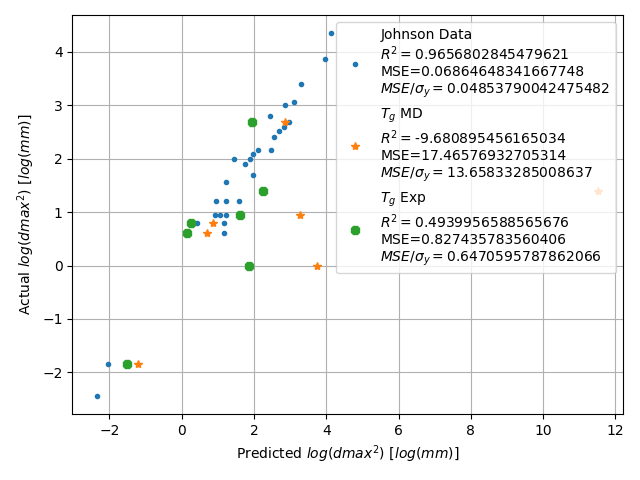
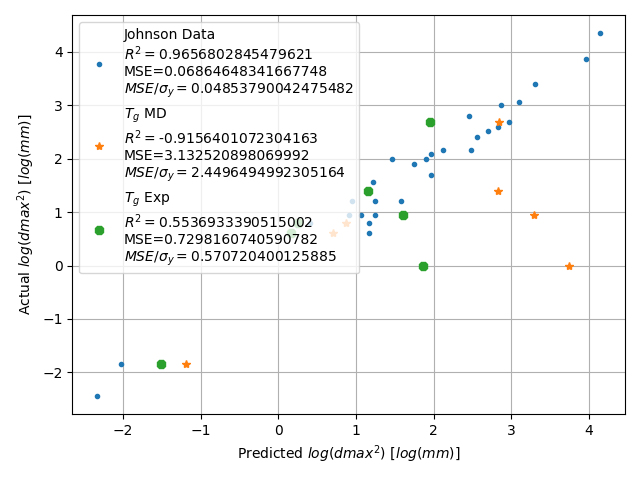
Uncertatinty propagations

diff --git a/ml/scripts/dmax_vs_tgovertstar.py b/ml/scripts/dmax_vs_tgovertstar.py
@@ -1,109 +1,36 @@
-from matplotlib import colors as mcolors
 from matplotlib import pyplot as pl
 import pandas as pd
 import numpy as np
 
-# Colors for plots
-colors = dict(mcolors.BASE_COLORS, **mcolors.CSS4_COLORS)
-colors = [j for i, j in colors.items()]
-colors = iter(colors)
+# Data path
+df = '../data/m_fit.txt'
 
-dfjohnson = pd.read_csv('../dmax_johnson/matches.txt')
-dfjohnson['Alloy'] = [
-                      'Ni400P100',
-                      'Cu250Zr250',
-                      'Zr300Cu150Al50'
-                      ]
-
-dfjohnson.rename(columns={'Alloy': 'composition'}, inplace=True)
-dfjohnson = dfjohnson[['composition', 'dexp (mm)', 'TL (K)']]
-dfjohnson.columns = ['composition', 'dmax', 'tl']
-
-dfward = pd.read_csv('../dmax_ward/matches.txt')
-
-# Composition for 500 atoms
-dfward['composition'] = [
-                         'Al0Cu200Zr300',
-                         'Ni300Nb200',
-                         'Cu250Zr250',
-                         'Cu250Zr250',
-                         'Al35Cu230Zr235',
-                         'Al35Cu225Zr240',
-                         ]
-
-dftl = pd.read_csv('../tl/tl.txt')
-dftl = dftl[['composition', 'tl']]
-dftl = dftl.dropna()
-
-dfward = dfward.merge(dftl, on=['composition'])
-dfward = dfward[['composition', 'D_max', 'tl']]
-dfward.columns = ['composition', 'dmax', 'tl']
-
-df = pd.read_csv('../jobs_data/fragility.txt')
-df['composition'] = df['job'].apply(lambda x: x.split('_')[1])
-
-dfjohnson = df.merge(dfjohnson, on=['composition'])
-dfward = df.merge(dfward, on=['composition'])
-
-df = pd.concat([dfjohnson, dfward])
-
-# Gather Tg/T* and Tg/Tl
-df['tg/tstar'] = df['tg'].values/df['tstar'].values
-df['trg'] = df['tg'].values/df['tl'].values
-
-# Take mean values for each composition
-groups = df.groupby(['composition'])
-mean = groups.mean().add_suffix('_mean').reset_index()
-std = groups.std().add_suffix('_std').reset_index()
-sem = groups.sem().add_suffix('_sem').reset_index()
-count = groups.count().add_suffix('_count').reset_index()
-
-# Merge data
-df = mean.merge(sem)
-df = df.merge(std)
-df = df.merge(count)
-
-groups = df.groupby(['composition'])
+# Import data
+df = pd.read_csv(df)
 
 fig, ax = pl.subplots()
-for i, j in groups:
 
-    x = j['tg/tstar_mean'].values
-    y = j['dmax_mean'].values**2
-    xstd = j['tg/tstar_std'].values
-    xsem = j['tg/tstar_sem'].values
+x = df['tg_md_mean/tstar_mean']
+y = df['dmax']
+xerr = df['tg_md_mean/tstar_mean_err']
 
-    ax.errorbar(
-                x,
-                y,
-                xerr=xstd,
-                ecolor='y',
-                marker='8',
-                linestyle='none',
-                )
-
-    ax.errorbar(
-                x,
-                y,
-                xerr=xsem,
-                ecolor='r',
-                marker='8',
-                linestyle='none',
-                color=next(colors),
-                label=i
-                )
-
+ax.errorbar(
+            x,
+            y,
+            xerr=xerr,
+            ecolor='r',
+            marker='8',
+            linestyle='none',
+            )
 
 ax.grid()
-ax.legend()
 
-ax.set_xlabel(r'$T_{g}/T_{*}$')
-ax.set_ylabel(r'$D_{max}^{2}$ $[mm^{2}]$')
+ax.set_xlabel(r'$T_{g}/T^{*}$')
+ax.set_ylabel(r'$D_{max}$ $[mm]$')
 
 ax.set_yscale('log')
 
 fig.tight_layout()
-fig.savefig('../jobs_plots/dmax_vs_tgovertstar')
+fig.savefig('../figures/dmax_vs_tgovertstar')
 
-print(df)
 pl.show()

diff --git a/ml/scripts/dmax_vs_tgovertl.py b/ml/scripts/dmax_vs_tgovertl.py
@@ -1,108 +1,36 @@
-from matplotlib import colors as mcolors
 from matplotlib import pyplot as pl
 import pandas as pd
 import numpy as np
 
-# Colors for plots
-colors = dict(mcolors.BASE_COLORS, **mcolors.CSS4_COLORS)
-colors = [j for i, j in colors.items()]
-colors = iter(colors)
+# Data path
+df = '../data/m_fit.txt'
 
-dfjohnson = pd.read_csv('../dmax_johnson/matches.txt')
-dfjohnson['Alloy'] = [
-                      'Ni400P100',
-                      'Cu250Zr250',
-                      'Zr300Cu150Al50'
-                      ]
-
-dfjohnson.rename(columns={'Alloy': 'composition'}, inplace=True)
-dfjohnson = dfjohnson[['composition', 'dexp (mm)', 'TL (K)']]
-dfjohnson.columns = ['composition', 'dmax', 'tl']
-
-dfward = pd.read_csv('../dmax_ward/matches.txt')
-
-# Composition for 500 atoms
-dfward['composition'] = [
-                         'Al0Cu200Zr300',
-                         'Ni300Nb200',
-                         'Cu250Zr250',
-                         'Cu250Zr250',
-                         'Al35Cu230Zr235',
-                         'Al35Cu225Zr240',
-                         ]
-
-dftl = pd.read_csv('../tl/tl.txt')
-dftl = dftl[['composition', 'tl']]
-dftl = dftl.dropna()
-
-dfward = dfward.merge(dftl, on=['composition'])
-dfward = dfward[['composition', 'D_max', 'tl']]
-dfward.columns = ['composition', 'dmax', 'tl']
-
-df = pd.read_csv('../jobs_data/fragility.txt')
-df['composition'] = df['job'].apply(lambda x: x.split('_')[1])
-
-dfjohnson = df.merge(dfjohnson, on=['composition'])
-dfward = df.merge(dfward, on=['composition'])
-
-df = pd.concat([dfjohnson, dfward])
-
-# Gather Tl/T*
-df['tg/tl'] = df['tg'].values/df['tl'].values
-
-# Take mean values for each composition
-groups = df.groupby(['composition'])
-mean = groups.mean().add_suffix('_mean').reset_index()
-std = groups.std().add_suffix('_std').reset_index()
-sem = groups.sem().add_suffix('_sem').reset_index()
-count = groups.count().add_suffix('_count').reset_index()
-
-# Merge data
-df = mean.merge(sem)
-df = df.merge(std)
-df = df.merge(count)
-
-groups = df.groupby(['composition'])
+# Import data
+df = pd.read_csv(df)
 
 fig, ax = pl.subplots()
-for i, j in groups:
 
-    x = j['tg/tl_mean'].values
-    y = j['dmax_mean'].values**2
-    xstd = j['tg/tl_std'].values
-    xsem = j['tg/tl_sem'].values
+x = df['tg_md_mean/tl']
+y = df['dmax']
+xerr = df['tg_md_mean/tl_err']
 
-    ax.errorbar(
-                x,
-                y,
-                xerr=xstd,
-                ecolor='y',
-                marker='8',
-                linestyle='none',
-                )
-
-    ax.errorbar(
-                x,
-                y,
-                xerr=xsem,
-                ecolor='r',
-                marker='8',
-                linestyle='none',
-                color=next(colors),
-                label=i
-                )
-
+ax.errorbar(
+            x,
+            y,
+            xerr=xerr,
+            ecolor='r',
+            marker='8',
+            linestyle='none',
+            )
 
 ax.grid()
-ax.legend()
 
 ax.set_xlabel(r'$T_{g}/T_{l}$')
-ax.set_ylabel(r'$D_{max}^{2}$ $[mm^{2}]$')
+ax.set_ylabel(r'$D_{max}$ $[mm]$')
 
 ax.set_yscale('log')
 
 fig.tight_layout()
-fig.savefig('../jobs_plots/dmax_vs_tgovertl')
+fig.savefig('../figures/dmax_vs_tgovertl')
 
-print(df)
 pl.show()

diff --git a/ml/data_original/md.py b/ml/data_original/md.py
@@ -1,4 +1,31 @@
 import pandas as pd
+import numpy as np
+
+
+def uncertainty(x, y, z):
+
+    '''
+    Propagate uncertaintites for division or multiplication.
+
+    inputs:
+        x = Measured values
+        y = Measured values uncertatinties
+        z = Final measured value from calculation
+
+    outputs:
+        err = The uncertainty
+    '''
+    
+    print(x)
+    print(y)
+    err = 0.0
+    for i, j in zip(x, y):
+        err += (j/x)**2
+
+    err **= 0.5
+    err *= abs(z)
+
+    return err
 
 
 def md_data(dfexp, dfmd, source):
@@ -60,5 +87,16 @@ for source in set(df['source'].values):
     mean.append(md_data(dfexp, dfmd, source))
 
 mean = pd.concat(mean, sort=True)
+
+# Calculate features
+mean['tg_md_mean/tl'] = mean['tg_md_mean']/mean['tl']
+mean['tg_exp/tl'] = mean['tg_exp']/mean['tl']
+mean['tg_md_mean/tstar_mean'] = mean['tg_md_mean']/mean['tstar_mean']
+mean['tg_exp/tstar_mean'] = mean['tg_exp']/mean['tstar_mean']
+
+# Feature uncertainties
+mean['tg_md_mean/tl_err'] = mean['tg_md_mean/tl']*((mean['tg_md_sem']/mean['tg_md_mean'])**2)**0.5
+mean['tg_md_mean/tstar_mean_err'] = mean['tg_md_mean/tstar_mean']*((mean['tg_md_sem']/mean['tg_md_mean'])**2+(mean['tstar_sem']/mean['tstar_mean'])**2)**0.5
+mean['tg_exp/tstar_mean_err'] = mean['tg_md_mean/tl']*((mean['tstar_sem']/mean['tstar_mean'])**2)**0.5
 
 mean.to_csv('md_mean.txt', index=False)

diff --git a/ml/scripts/m_vs_tgovertstar.py b/ml/scripts/m_vs_tgovertstar.py
@@ -13,15 +13,11 @@ df = '../data_original/md_mean.txt'
 dfkelton = pd.read_csv(dfkelton)
 df = pd.read_csv(df)
 
-# Calculate features
-df['tg_md/tstar'] = df['tg_md_mean']/df['tstar_mean']
-df['tg_exp/tstar'] = df['tg_exp']/df['tstar_mean']
-
 # Format data for machine learning
 compositions = df['composition'].values
 X_train = dfkelton[['tg/tstar']].values
-X_mdpure = df[['tg_md/tstar']].values
-X_mdpartial = df[['tg_exp/tstar']].values
+X_mdpure = df[['tg_md_mean/tstar_mean']].values
+X_mdpartial = df[['tg_exp/tstar_mean']].values
 y_train = dfkelton['m'].values
 
 # Model
